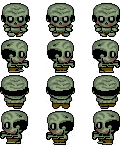
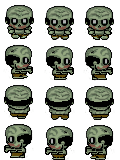
Add zombie sprites

diff --git a/script.js b/script.js
@@ -19,7 +19,8 @@ var shroomUrl = '/assets/Mushroom.png';
 
 var backgroundName = 'Ground';
 
-var zombieSprite = '/assets/GirlLightExample.png';
+var zombie1Sprite = '/assets/Zombie2.png';
+var zombie2Sprite = '/assets/Zombie2.png';
 var heroSprite = '/assets/HatGuy.png';
 var frameRate = 5;
 
@@ -31,7 +32,8 @@ function preload() {
     game.load.tilemap('map', "tilemap.json", null, Phaser.Tilemap.TILED_JSON);
     game.load.image(tilesetName, tilesetUrl);
     game.load.image(shroomName, shroomUrl);
-    game.load.spritesheet('zombie', zombieSprite, 40, 40, 12);
+    game.load.spritesheet('zombie1', zombie1Sprite, 40, 40, 12);
+    game.load.spritesheet('zombie2', zombie2Sprite, 40, 40, 12);
     game.load.spritesheet('hero', heroSprite, 40, 40, 12);
 }
 
@@ -66,7 +68,6 @@ function create() {
         game.physics.arcade.enable(shroom);
     }
 
-
     zombie = game.add.sprite(50, 200, 'zombie');
     game.physics.arcade.enable(zombie);
     zombie.body.fixedRotation = true;
@@ -83,8 +84,6 @@ function create() {
     hero.animations.add('walk-right', [3, 4, 5], frameRate, true);
     hero.animations.add('walk-up', [6, 7, 8], frameRate, true);
     hero.animations.add('walk-left', [9, 10, 11], frameRate, true);
-
-    hero.anchor.setTo(0.5, 0.5);
 
     hero.body.collideWorldBounds = true;
     hero.body.bounce.set(1);
@@ -115,9 +114,8 @@ function update() {
 }
 
 function render() {
-    game.debug.text('Collide!', 32, 32);
-
-    layer.debug;
+    //game.debug.text('Collide!', 32, 32);
+    //layer.debug;
 }
 
 function move() {
@@ -187,13 +185,12 @@ function die(player) {
 
 }
 
-function updateText() {
+function updateScore() {
     text.setText("Score:" + count);
-
 }
 
 function eat(player, mushroom) {
     mushroom.kill();
     count++;
-    updateText();
+    updateScore();
 }
